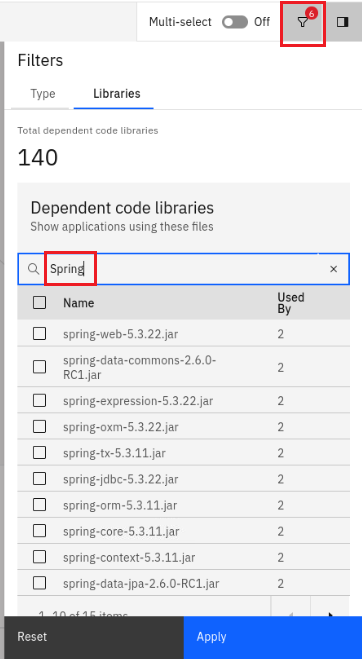
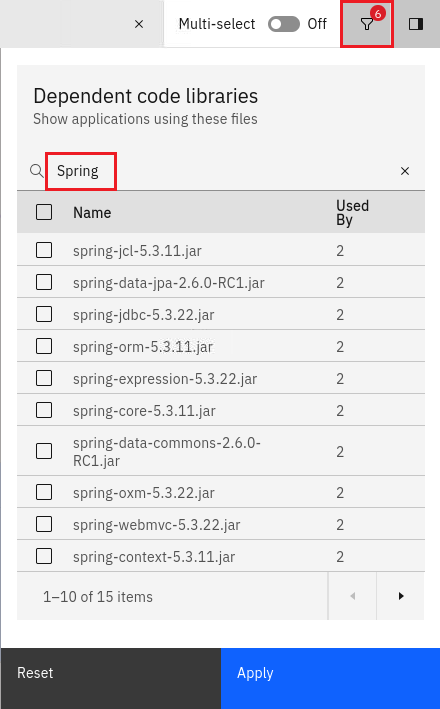
Update to 4.6.3

diff --git a/README.md b/README.md
@@ -164,7 +164,7 @@ Later on, you will create another workspace for the WebSphere landscape used in 
     
 2. Explore the workspace with the sample applications
 
-    1. CLick on the workspace to open it.
+    1. Click on the workspace to open it.
 
     2. AMA supports three destinations, **Liberty**, **MoRE** and **WebSphere Application Server** (Traditional)
     
@@ -199,19 +199,20 @@ Later on, you will create another workspace for the WebSphere landscape used in 
         The assessment tab provides insight into the different applications.
         <kbd>![AMA_Assessment_Overview](./images/media/AMA_Assessment_Overview.png)</kbd>
     
-    6. Under **Applications**, you can specify the target Java SE and Java EE level.
+    6. Take a look at the upper part
 
         <kbd>![AMA_Assessment_Total.png](./images/media/AMA_Assessment_Total.png)</kbd>
 
-        Under **Total Applications**, you can see the effort for the chosen target. AMA also analyzes all the application code and common code that is shared across applications and provides an estimated total cost for migrating the apps and common code in the workspace. 
+        - Under **Applications**, you can change the destination including the Java SE and Java EE level.
+        - Under **Total Applications**, you can see the effort for the chosen target. AMA also analyzes all the application code and common code that is shared across applications and provides an estimated total cost for migrating the apps and common code in the workspace. 
         
         Total cost is the number of days of development cost to migrate that code to run on the selected migration target. In this example, WebSphere Liberty is the selected migration target.
 
-    7. Change the Java SE Level and the Java EE level to find out how the overall effort changes.
+    7. Change the Java SE Level and the Java EE level to find out how the overall effort changes. As you can see the estimated efforts change.
 
         <kbd>![AMA_Assessment_Total2.png](./images/media/AMA_Assessment_Total2.png)</kbd>
 
-        Finally change the Java SE and Java EE level back to the minimum to see the efforts for te quickest path of modernization.
+        Finally change the Java SE and Java EE level back to the minimum to see the efforts for the quickest path of modernization.
 
     8. Take a look further down at the application list.
 